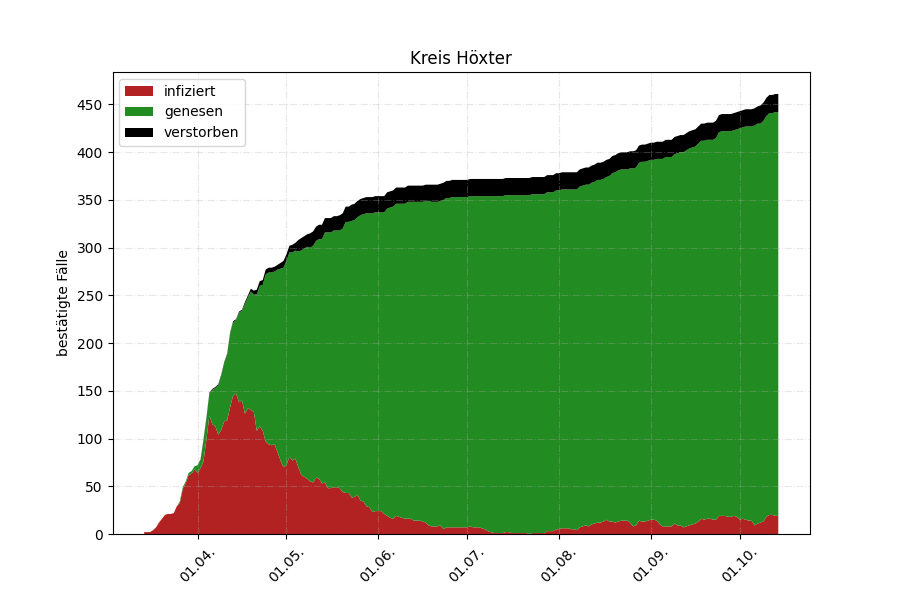
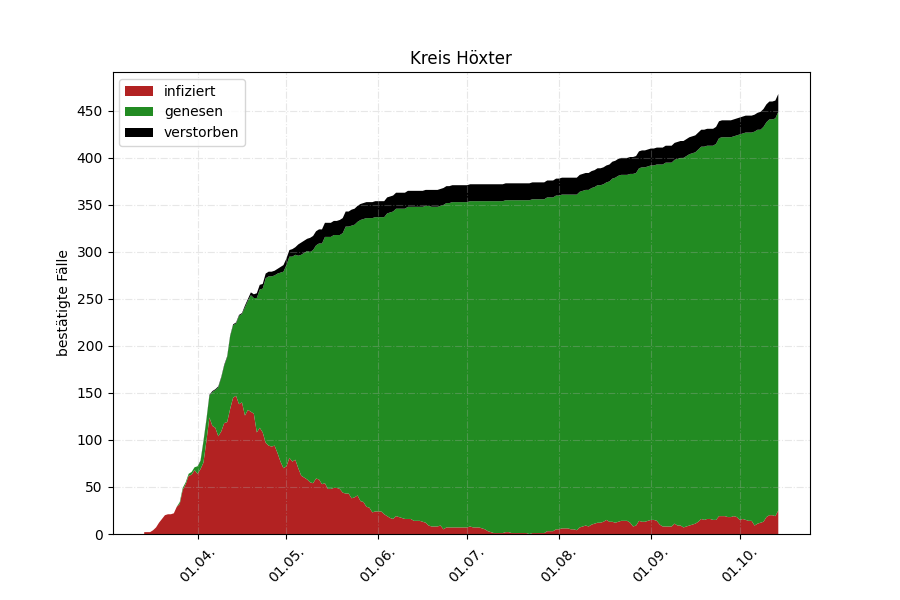
Stand 14. Oktober

diff --git a/kreis-hoexter.html b/kreis-hoexter.html
@@ -14,12 +14,12 @@
 <meta property="og:locale" content="de" />
 <meta name="description" content="Daten und Diagramme zur Coronavirus-Krankheit 2019 im Kreis Höxter" />
 <meta property="og:description" content="Daten und Diagramme zur Coronavirus-Krankheit 2019 im Kreis Höxter" />
-<link rel="canonical" href="https://covidoplot.github.io/kreis-hoexter.html" />
-<meta property="og:url" content="https://covidoplot.github.io/kreis-hoexter.html" />
+<link rel="canonical" href="http://localhost:4000/kreis-hoexter.html" />
+<meta property="og:url" content="http://localhost:4000/kreis-hoexter.html" />
 <meta property="og:site_name" content="Covid 19 im Kreis Höxter" />
 <meta name="google-site-verification" content="Jy9GjP1zJSZb24WTJkI5fc6zPYqWLYs0bo6EZXmsmKY" />
 <script type="application/ld+json">
-{"author":{"@type":"Person","name":"Elmar Hinz"},"url":"https://covidoplot.github.io/kreis-hoexter.html","headline":"Kreis Höxter","description":"Daten und Diagramme zur Coronavirus-Krankheit 2019 im Kreis Höxter","@type":"WebPage","@context":"https://schema.org"}</script>
+{"author":{"@type":"Person","name":"Elmar Hinz"},"url":"http://localhost:4000/kreis-hoexter.html","headline":"Kreis Höxter","description":"Daten und Diagramme zur Coronavirus-Krankheit 2019 im Kreis Höxter","@type":"WebPage","@context":"https://schema.org"}</script>
 <!-- End Jekyll SEO tag -->
 
 </head>
@@ -345,16 +345,22 @@
         <tfoot>
         <tr class="">
             <th scope="row" class="table-secondary">Insgesamt</th>
+            <td class="table-secondary">25
+                
+                <small>(19)</small>
+                
+            </td>
+            <td class="table-secondary">424
+                
+                <small>(423)</small>
+                
+            </td>
             <td class="table-secondary">19
                 
             </td>
-            <td class="table-secondary">423
+            <td class="table-secondary"><strong>468
                 
-            </td>
-            <td class="table-secondary">19
-                
-            </td>
-            <td class="table-secondary"><strong>461
+                <small>(461)</small>
                 
             </strong></td>
         </tr>
@@ -2435,10 +2441,10 @@
         
         <tr>
             <td class="table-secondary">14. October</td>
+            <td>25</td>
+            <td>424</td>
             <td>19</td>
-            <td>423</td>
-            <td>19</td>
-            <td class="table-secondary">461</td>
+            <td class="table-secondary">468</td>
         </tr>
         
         </tbody>

diff --git a/communes/marienmuenster.html b/communes/marienmuenster.html
@@ -14,14 +14,14 @@
 <meta property="og:locale" content="de" />
 <meta name="description" content="Daten und Diagramme zur Coronavirus-Krankheit 2019 in Marienmünster" />
 <meta property="og:description" content="Daten und Diagramme zur Coronavirus-Krankheit 2019 in Marienmünster" />
-<link rel="canonical" href="https://covidoplot.github.io/communes/marienmuenster.html" />
-<meta property="og:url" content="https://covidoplot.github.io/communes/marienmuenster.html" />
+<link rel="canonical" href="http://localhost:4000/communes/marienmuenster.html" />
+<meta property="og:url" content="http://localhost:4000/communes/marienmuenster.html" />
 <meta property="og:site_name" content="Covid 19 im Kreis Höxter" />
 <meta property="og:type" content="article" />
-<meta property="article:published_time" content="2020-10-14T10:56:20+02:00" />
+<meta property="article:published_time" content="2020-10-14T11:02:39+02:00" />
 <meta name="google-site-verification" content="Jy9GjP1zJSZb24WTJkI5fc6zPYqWLYs0bo6EZXmsmKY" />
 <script type="application/ld+json">
-{"author":{"@type":"Person","name":"Elmar Hinz"},"url":"https://covidoplot.github.io/communes/marienmuenster.html","headline":"Marienmünster","dateModified":"2020-10-14T10:56:20+02:00","datePublished":"2020-10-14T10:56:20+02:00","description":"Daten und Diagramme zur Coronavirus-Krankheit 2019 in Marienmünster","mainEntityOfPage":{"@type":"WebPage","@id":"https://covidoplot.github.io/communes/marienmuenster.html"},"@type":"BlogPosting","@context":"https://schema.org"}</script>
+{"author":{"@type":"Person","name":"Elmar Hinz"},"url":"http://localhost:4000/communes/marienmuenster.html","headline":"Marienmünster","dateModified":"2020-10-14T11:02:39+02:00","datePublished":"2020-10-14T11:02:39+02:00","description":"Daten und Diagramme zur Coronavirus-Krankheit 2019 in Marienmünster","mainEntityOfPage":{"@type":"WebPage","@id":"http://localhost:4000/communes/marienmuenster.html"},"@type":"BlogPosting","@context":"https://schema.org"}</script>
 <!-- End Jekyll SEO tag -->
 
 </head>

diff --git a/communes/willebadessen.html b/communes/willebadessen.html
@@ -14,14 +14,14 @@
 <meta property="og:locale" content="de" />
 <meta name="description" content="Daten und Diagramme zur Coronavirus-Krankheit 2019 in Willebadessen" />
 <meta property="og:description" content="Daten und Diagramme zur Coronavirus-Krankheit 2019 in Willebadessen" />
-<link rel="canonical" href="https://covidoplot.github.io/communes/willebadessen.html" />
-<meta property="og:url" content="https://covidoplot.github.io/communes/willebadessen.html" />
+<link rel="canonical" href="http://localhost:4000/communes/willebadessen.html" />
+<meta property="og:url" content="http://localhost:4000/communes/willebadessen.html" />
 <meta property="og:site_name" content="Covid 19 im Kreis Höxter" />
 <meta property="og:type" content="article" />
-<meta property="article:published_time" content="2020-10-14T10:56:20+02:00" />
+<meta property="article:published_time" content="2020-10-14T11:02:39+02:00" />
 <meta name="google-site-verification" content="Jy9GjP1zJSZb24WTJkI5fc6zPYqWLYs0bo6EZXmsmKY" />
 <script type="application/ld+json">
-{"author":{"@type":"Person","name":"Elmar Hinz"},"url":"https://covidoplot.github.io/communes/willebadessen.html","headline":"Willebadessen","dateModified":"2020-10-14T10:56:20+02:00","datePublished":"2020-10-14T10:56:20+02:00","description":"Daten und Diagramme zur Coronavirus-Krankheit 2019 in Willebadessen","mainEntityOfPage":{"@type":"WebPage","@id":"https://covidoplot.github.io/communes/willebadessen.html"},"@type":"BlogPosting","@context":"https://schema.org"}</script>
+{"author":{"@type":"Person","name":"Elmar Hinz"},"url":"http://localhost:4000/communes/willebadessen.html","headline":"Willebadessen","dateModified":"2020-10-14T11:02:39+02:00","datePublished":"2020-10-14T11:02:39+02:00","description":"Daten und Diagramme zur Coronavirus-Krankheit 2019 in Willebadessen","mainEntityOfPage":{"@type":"WebPage","@id":"http://localhost:4000/communes/willebadessen.html"},"@type":"BlogPosting","@context":"https://schema.org"}</script>
 <!-- End Jekyll SEO tag -->
 
 </head>

diff --git a/communes/borgentreich.html b/communes/borgentreich.html
@@ -14,14 +14,14 @@
 <meta property="og:locale" content="de" />
 <meta name="description" content="Daten und Diagramme zur Coronavirus-Krankheit 2019 in Borgentreich" />
 <meta property="og:description" content="Daten und Diagramme zur Coronavirus-Krankheit 2019 in Borgentreich" />
-<link rel="canonical" href="https://covidoplot.github.io/communes/borgentreich.html" />
-<meta property="og:url" content="https://covidoplot.github.io/communes/borgentreich.html" />
+<link rel="canonical" href="http://localhost:4000/communes/borgentreich.html" />
+<meta property="og:url" content="http://localhost:4000/communes/borgentreich.html" />
 <meta property="og:site_name" content="Covid 19 im Kreis Höxter" />
 <meta property="og:type" content="article" />
-<meta property="article:published_time" content="2020-10-14T10:56:20+02:00" />
+<meta property="article:published_time" content="2020-10-14T11:02:39+02:00" />
 <meta name="google-site-verification" content="Jy9GjP1zJSZb24WTJkI5fc6zPYqWLYs0bo6EZXmsmKY" />
 <script type="application/ld+json">
-{"author":{"@type":"Person","name":"Elmar Hinz"},"url":"https://covidoplot.github.io/communes/borgentreich.html","headline":"Borgentreich","dateModified":"2020-10-14T10:56:20+02:00","datePublished":"2020-10-14T10:56:20+02:00","description":"Daten und Diagramme zur Coronavirus-Krankheit 2019 in Borgentreich","mainEntityOfPage":{"@type":"WebPage","@id":"https://covidoplot.github.io/communes/borgentreich.html"},"@type":"BlogPosting","@context":"https://schema.org"}</script>
+{"author":{"@type":"Person","name":"Elmar Hinz"},"url":"http://localhost:4000/communes/borgentreich.html","headline":"Borgentreich","dateModified":"2020-10-14T11:02:39+02:00","datePublished":"2020-10-14T11:02:39+02:00","description":"Daten und Diagramme zur Coronavirus-Krankheit 2019 in Borgentreich","mainEntityOfPage":{"@type":"WebPage","@id":"http://localhost:4000/communes/borgentreich.html"},"@type":"BlogPosting","@context":"https://schema.org"}</script>
 <!-- End Jekyll SEO tag -->
 
 </head>

diff --git a/reports/2020-09-10.html b/reports/2020-09-10.html
@@ -14,14 +14,14 @@
 <meta property="og:locale" content="de" />
 <meta name="description" content="Wochenbericht zu Covid-19 mit dem Fokus auf Bad Driburg." />
 <meta property="og:description" content="Wochenbericht zu Covid-19 mit dem Fokus auf Bad Driburg." />
-<link rel="canonical" href="https://covidoplot.github.io/reports/2020-09-10.html" />
-<meta property="og:url" content="https://covidoplot.github.io/reports/2020-09-10.html" />
+<link rel="canonical" href="http://localhost:4000/reports/2020-09-10.html" />
+<meta property="og:url" content="http://localhost:4000/reports/2020-09-10.html" />
 <meta property="og:site_name" content="Covid 19 im Kreis Höxter" />
 <meta property="og:type" content="article" />
-<meta property="article:published_time" content="2020-10-14T10:56:20+02:00" />
+<meta property="article:published_time" content="2020-10-14T11:02:39+02:00" />
 <meta name="google-site-verification" content="Jy9GjP1zJSZb24WTJkI5fc6zPYqWLYs0bo6EZXmsmKY" />
 <script type="application/ld+json">
-{"author":{"@type":"Person","name":"Elmar Hinz"},"url":"https://covidoplot.github.io/reports/2020-09-10.html","headline":"Covid-19 Wochenbericht - 10. September","dateModified":"2020-10-14T10:56:20+02:00","datePublished":"2020-10-14T10:56:20+02:00","description":"Wochenbericht zu Covid-19 mit dem Fokus auf Bad Driburg.","mainEntityOfPage":{"@type":"WebPage","@id":"https://covidoplot.github.io/reports/2020-09-10.html"},"@type":"BlogPosting","@context":"https://schema.org"}</script>
+{"author":{"@type":"Person","name":"Elmar Hinz"},"url":"http://localhost:4000/reports/2020-09-10.html","headline":"Covid-19 Wochenbericht - 10. September","dateModified":"2020-10-14T11:02:39+02:00","datePublished":"2020-10-14T11:02:39+02:00","description":"Wochenbericht zu Covid-19 mit dem Fokus auf Bad Driburg.","mainEntityOfPage":{"@type":"WebPage","@id":"http://localhost:4000/reports/2020-09-10.html"},"@type":"BlogPosting","@context":"https://schema.org"}</script>
 <!-- End Jekyll SEO tag -->
 
 </head>

diff --git a/reports/2020-09-17.html b/reports/2020-09-17.html
@@ -14,14 +14,14 @@
 <meta property="og:locale" content="de" />
 <meta name="description" content="Wochenbericht zu Covid-19 mit dem Fokus auf Bad Driburg." />
 <meta property="og:description" content="Wochenbericht zu Covid-19 mit dem Fokus auf Bad Driburg." />
-<link rel="canonical" href="https://covidoplot.github.io/reports/2020-09-17.html" />
-<meta property="og:url" content="https://covidoplot.github.io/reports/2020-09-17.html" />
+<link rel="canonical" href="http://localhost:4000/reports/2020-09-17.html" />
+<meta property="og:url" content="http://localhost:4000/reports/2020-09-17.html" />
 <meta property="og:site_name" content="Covid 19 im Kreis Höxter" />
 <meta property="og:type" content="article" />
-<meta property="article:published_time" content="2020-10-14T10:56:20+02:00" />
+<meta property="article:published_time" content="2020-10-14T11:02:39+02:00" />
 <meta name="google-site-verification" content="Jy9GjP1zJSZb24WTJkI5fc6zPYqWLYs0bo6EZXmsmKY" />
 <script type="application/ld+json">
-{"author":{"@type":"Person","name":"Elmar Hinz"},"url":"https://covidoplot.github.io/reports/2020-09-17.html","headline":"Covid-19 Wochenbericht - 17. September","dateModified":"2020-10-14T10:56:20+02:00","datePublished":"2020-10-14T10:56:20+02:00","description":"Wochenbericht zu Covid-19 mit dem Fokus auf Bad Driburg.","mainEntityOfPage":{"@type":"WebPage","@id":"https://covidoplot.github.io/reports/2020-09-17.html"},"@type":"BlogPosting","@context":"https://schema.org"}</script>
+{"author":{"@type":"Person","name":"Elmar Hinz"},"url":"http://localhost:4000/reports/2020-09-17.html","headline":"Covid-19 Wochenbericht - 17. September","dateModified":"2020-10-14T11:02:39+02:00","datePublished":"2020-10-14T11:02:39+02:00","description":"Wochenbericht zu Covid-19 mit dem Fokus auf Bad Driburg.","mainEntityOfPage":{"@type":"WebPage","@id":"http://localhost:4000/reports/2020-09-17.html"},"@type":"BlogPosting","@context":"https://schema.org"}</script>
 <!-- End Jekyll SEO tag -->
 
 </head>

diff --git a/reports/2020-09-24.html b/reports/2020-09-24.html
@@ -14,14 +14,14 @@
 <meta property="og:locale" content="de" />
 <meta name="description" content="Wochenbericht zu Covid-19 mit dem Fokus auf Bad Driburg." />
 <meta property="og:description" content="Wochenbericht zu Covid-19 mit dem Fokus auf Bad Driburg." />
-<link rel="canonical" href="https://covidoplot.github.io/reports/2020-09-24.html" />
-<meta property="og:url" content="https://covidoplot.github.io/reports/2020-09-24.html" />
+<link rel="canonical" href="http://localhost:4000/reports/2020-09-24.html" />
+<meta property="og:url" content="http://localhost:4000/reports/2020-09-24.html" />
 <meta property="og:site_name" content="Covid 19 im Kreis Höxter" />
 <meta property="og:type" content="article" />
-<meta property="article:published_time" content="2020-10-14T10:56:20+02:00" />
+<meta property="article:published_time" content="2020-10-14T11:02:39+02:00" />
 <meta name="google-site-verification" content="Jy9GjP1zJSZb24WTJkI5fc6zPYqWLYs0bo6EZXmsmKY" />
 <script type="application/ld+json">
-{"author":{"@type":"Person","name":"Elmar Hinz"},"url":"https://covidoplot.github.io/reports/2020-09-24.html","headline":"Covid-19 Wochenbericht - 24. September","dateModified":"2020-10-14T10:56:20+02:00","datePublished":"2020-10-14T10:56:20+02:00","description":"Wochenbericht zu Covid-19 mit dem Fokus auf Bad Driburg.","mainEntityOfPage":{"@type":"WebPage","@id":"https://covidoplot.github.io/reports/2020-09-24.html"},"@type":"BlogPosting","@context":"https://schema.org"}</script>
+{"author":{"@type":"Person","name":"Elmar Hinz"},"url":"http://localhost:4000/reports/2020-09-24.html","headline":"Covid-19 Wochenbericht - 24. September","dateModified":"2020-10-14T11:02:39+02:00","datePublished":"2020-10-14T11:02:39+02:00","description":"Wochenbericht zu Covid-19 mit dem Fokus auf Bad Driburg.","mainEntityOfPage":{"@type":"WebPage","@id":"http://localhost:4000/reports/2020-09-24.html"},"@type":"BlogPosting","@context":"https://schema.org"}</script>
 <!-- End Jekyll SEO tag -->
 
 </head>

diff --git a/communes/bad-driburg.html b/communes/bad-driburg.html
@@ -14,14 +14,14 @@
 <meta property="og:locale" content="de" />
 <meta name="description" content="Daten und Diagramme zur Coronavirus-Krankheit 2019 in Bad Driburg" />
 <meta property="og:description" content="Daten und Diagramme zur Coronavirus-Krankheit 2019 in Bad Driburg" />
-<link rel="canonical" href="https://covidoplot.github.io/communes/bad-driburg.html" />
-<meta property="og:url" content="https://covidoplot.github.io/communes/bad-driburg.html" />
+<link rel="canonical" href="http://localhost:4000/communes/bad-driburg.html" />
+<meta property="og:url" content="http://localhost:4000/communes/bad-driburg.html" />
 <meta property="og:site_name" content="Covid 19 im Kreis Höxter" />
 <meta property="og:type" content="article" />
-<meta property="article:published_time" content="2020-10-14T10:56:20+02:00" />
+<meta property="article:published_time" content="2020-10-14T11:02:39+02:00" />
 <meta name="google-site-verification" content="Jy9GjP1zJSZb24WTJkI5fc6zPYqWLYs0bo6EZXmsmKY" />
 <script type="application/ld+json">
-{"author":{"@type":"Person","name":"Elmar Hinz"},"url":"https://covidoplot.github.io/communes/bad-driburg.html","headline":"Bad Driburg","dateModified":"2020-10-14T10:56:20+02:00","datePublished":"2020-10-14T10:56:20+02:00","description":"Daten und Diagramme zur Coronavirus-Krankheit 2019 in Bad Driburg","mainEntityOfPage":{"@type":"WebPage","@id":"https://covidoplot.github.io/communes/bad-driburg.html"},"@type":"BlogPosting","@context":"https://schema.org"}</script>
+{"author":{"@type":"Person","name":"Elmar Hinz"},"url":"http://localhost:4000/communes/bad-driburg.html","headline":"Bad Driburg","dateModified":"2020-10-14T11:02:39+02:00","datePublished":"2020-10-14T11:02:39+02:00","description":"Daten und Diagramme zur Coronavirus-Krankheit 2019 in Bad Driburg","mainEntityOfPage":{"@type":"WebPage","@id":"http://localhost:4000/communes/bad-driburg.html"},"@type":"BlogPosting","@context":"https://schema.org"}</script>
 <!-- End Jekyll SEO tag -->
 
 </head>

diff --git a/reports/2020-10-02.html b/reports/2020-10-02.html
@@ -14,14 +14,14 @@
 <meta property="og:locale" content="de" />
 <meta name="description" content="Wochenbericht zu Covid-19 mit dem Fokus auf Bad Driburg." />
 <meta property="og:description" content="Wochenbericht zu Covid-19 mit dem Fokus auf Bad Driburg." />
-<link rel="canonical" href="https://covidoplot.github.io/reports/2020-10-02.html" />
-<meta property="og:url" content="https://covidoplot.github.io/reports/2020-10-02.html" />
+<link rel="canonical" href="http://localhost:4000/reports/2020-10-02.html" />
+<meta property="og:url" content="http://localhost:4000/reports/2020-10-02.html" />
 <meta property="og:site_name" content="Covid 19 im Kreis Höxter" />
 <meta property="og:type" content="article" />
-<meta property="article:published_time" content="2020-10-14T10:56:20+02:00" />
+<meta property="article:published_time" content="2020-10-14T11:02:39+02:00" />
 <meta name="google-site-verification" content="Jy9GjP1zJSZb24WTJkI5fc6zPYqWLYs0bo6EZXmsmKY" />
 <script type="application/ld+json">
-{"author":{"@type":"Person","name":"Elmar Hinz"},"url":"https://covidoplot.github.io/reports/2020-10-02.html","headline":"Covid-19 Wochenbericht - 2. Oktober","dateModified":"2020-10-14T10:56:20+02:00","datePublished":"2020-10-14T10:56:20+02:00","description":"Wochenbericht zu Covid-19 mit dem Fokus auf Bad Driburg.","mainEntityOfPage":{"@type":"WebPage","@id":"https://covidoplot.github.io/reports/2020-10-02.html"},"@type":"BlogPosting","@context":"https://schema.org"}</script>
+{"author":{"@type":"Person","name":"Elmar Hinz"},"url":"http://localhost:4000/reports/2020-10-02.html","headline":"Covid-19 Wochenbericht - 2. Oktober","dateModified":"2020-10-14T11:02:39+02:00","datePublished":"2020-10-14T11:02:39+02:00","description":"Wochenbericht zu Covid-19 mit dem Fokus auf Bad Driburg.","mainEntityOfPage":{"@type":"WebPage","@id":"http://localhost:4000/reports/2020-10-02.html"},"@type":"BlogPosting","@context":"https://schema.org"}</script>
 <!-- End Jekyll SEO tag -->
 
 </head>

diff --git a/reports/2020-10-08.html b/reports/2020-10-08.html
@@ -14,14 +14,14 @@
 <meta property="og:locale" content="de" />
 <meta name="description" content="Wochenbericht zu Covid-19 mit dem Fokus auf Bad Driburg." />
 <meta property="og:description" content="Wochenbericht zu Covid-19 mit dem Fokus auf Bad Driburg." />
-<link rel="canonical" href="https://covidoplot.github.io/reports/2020-10-08.html" />
-<meta property="og:url" content="https://covidoplot.github.io/reports/2020-10-08.html" />
+<link rel="canonical" href="http://localhost:4000/reports/2020-10-08.html" />
+<meta property="og:url" content="http://localhost:4000/reports/2020-10-08.html" />
 <meta property="og:site_name" content="Covid 19 im Kreis Höxter" />
 <meta property="og:type" content="article" />
-<meta property="article:published_time" content="2020-10-14T10:56:20+02:00" />
+<meta property="article:published_time" content="2020-10-14T11:02:39+02:00" />
 <meta name="google-site-verification" content="Jy9GjP1zJSZb24WTJkI5fc6zPYqWLYs0bo6EZXmsmKY" />
 <script type="application/ld+json">
-{"author":{"@type":"Person","name":"Elmar Hinz"},"url":"https://covidoplot.github.io/reports/2020-10-08.html","headline":"Covid-19 Wochenbericht - 8. Oktober","dateModified":"2020-10-14T10:56:20+02:00","datePublished":"2020-10-14T10:56:20+02:00","description":"Wochenbericht zu Covid-19 mit dem Fokus auf Bad Driburg.","mainEntityOfPage":{"@type":"WebPage","@id":"https://covidoplot.github.io/reports/2020-10-08.html"},"@type":"BlogPosting","@context":"https://schema.org"}</script>
+{"author":{"@type":"Person","name":"Elmar Hinz"},"url":"http://localhost:4000/reports/2020-10-08.html","headline":"Covid-19 Wochenbericht - 8. Oktober","dateModified":"2020-10-14T11:02:39+02:00","datePublished":"2020-10-14T11:02:39+02:00","description":"Wochenbericht zu Covid-19 mit dem Fokus auf Bad Driburg.","mainEntityOfPage":{"@type":"WebPage","@id":"http://localhost:4000/reports/2020-10-08.html"},"@type":"BlogPosting","@context":"https://schema.org"}</script>
 <!-- End Jekyll SEO tag -->
 
 </head>

diff --git a/communes/beverungen.html b/communes/beverungen.html
@@ -14,14 +14,14 @@
 <meta property="og:locale" content="de" />
 <meta name="description" content="Daten und Diagramme zur Coronavirus-Krankheit 2019 in Beverungen" />
 <meta property="og:description" content="Daten und Diagramme zur Coronavirus-Krankheit 2019 in Beverungen" />
-<link rel="canonical" href="https://covidoplot.github.io/communes/beverungen.html" />
-<meta property="og:url" content="https://covidoplot.github.io/communes/beverungen.html" />
+<link rel="canonical" href="http://localhost:4000/communes/beverungen.html" />
+<meta property="og:url" content="http://localhost:4000/communes/beverungen.html" />
 <meta property="og:site_name" content="Covid 19 im Kreis Höxter" />
 <meta property="og:type" content="article" />
-<meta property="article:published_time" content="2020-10-14T10:56:20+02:00" />
+<meta property="article:published_time" content="2020-10-14T11:02:39+02:00" />
 <meta name="google-site-verification" content="Jy9GjP1zJSZb24WTJkI5fc6zPYqWLYs0bo6EZXmsmKY" />
 <script type="application/ld+json">
-{"author":{"@type":"Person","name":"Elmar Hinz"},"url":"https://covidoplot.github.io/communes/beverungen.html","headline":"Beverungen","dateModified":"2020-10-14T10:56:20+02:00","datePublished":"2020-10-14T10:56:20+02:00","description":"Daten und Diagramme zur Coronavirus-Krankheit 2019 in Beverungen","mainEntityOfPage":{"@type":"WebPage","@id":"https://covidoplot.github.io/communes/beverungen.html"},"@type":"BlogPosting","@context":"https://schema.org"}</script>
+{"author":{"@type":"Person","name":"Elmar Hinz"},"url":"http://localhost:4000/communes/beverungen.html","headline":"Beverungen","dateModified":"2020-10-14T11:02:39+02:00","datePublished":"2020-10-14T11:02:39+02:00","description":"Daten und Diagramme zur Coronavirus-Krankheit 2019 in Beverungen","mainEntityOfPage":{"@type":"WebPage","@id":"http://localhost:4000/communes/beverungen.html"},"@type":"BlogPosting","@context":"https://schema.org"}</script>
 <!-- End Jekyll SEO tag -->
 
 </head>

diff --git a/communes/steinheim.html b/communes/steinheim.html
@@ -14,14 +14,14 @@
 <meta property="og:locale" content="de" />
 <meta name="description" content="Daten und Diagramme zur Coronavirus-Krankheit 2019 in Steinheim" />
 <meta property="og:description" content="Daten und Diagramme zur Coronavirus-Krankheit 2019 in Steinheim" />
-<link rel="canonical" href="https://covidoplot.github.io/communes/steinheim.html" />
-<meta property="og:url" content="https://covidoplot.github.io/communes/steinheim.html" />
+<link rel="canonical" href="http://localhost:4000/communes/steinheim.html" />
+<meta property="og:url" content="http://localhost:4000/communes/steinheim.html" />
 <meta property="og:site_name" content="Covid 19 im Kreis Höxter" />
 <meta property="og:type" content="article" />
-<meta property="article:published_time" content="2020-10-14T10:56:20+02:00" />
+<meta property="article:published_time" content="2020-10-14T11:02:39+02:00" />
 <meta name="google-site-verification" content="Jy9GjP1zJSZb24WTJkI5fc6zPYqWLYs0bo6EZXmsmKY" />
 <script type="application/ld+json">
-{"author":{"@type":"Person","name":"Elmar Hinz"},"url":"https://covidoplot.github.io/communes/steinheim.html","headline":"Steinheim","dateModified":"2020-10-14T10:56:20+02:00","datePublished":"2020-10-14T10:56:20+02:00","description":"Daten und Diagramme zur Coronavirus-Krankheit 2019 in Steinheim","mainEntityOfPage":{"@type":"WebPage","@id":"https://covidoplot.github.io/communes/steinheim.html"},"@type":"BlogPosting","@context":"https://schema.org"}</script>
+{"author":{"@type":"Person","name":"Elmar Hinz"},"url":"http://localhost:4000/communes/steinheim.html","headline":"Steinheim","dateModified":"2020-10-14T11:02:39+02:00","datePublished":"2020-10-14T11:02:39+02:00","description":"Daten und Diagramme zur Coronavirus-Krankheit 2019 in Steinheim","mainEntityOfPage":{"@type":"WebPage","@id":"http://localhost:4000/communes/steinheim.html"},"@type":"BlogPosting","@context":"https://schema.org"}</script>
 <!-- End Jekyll SEO tag -->
 
 </head>
